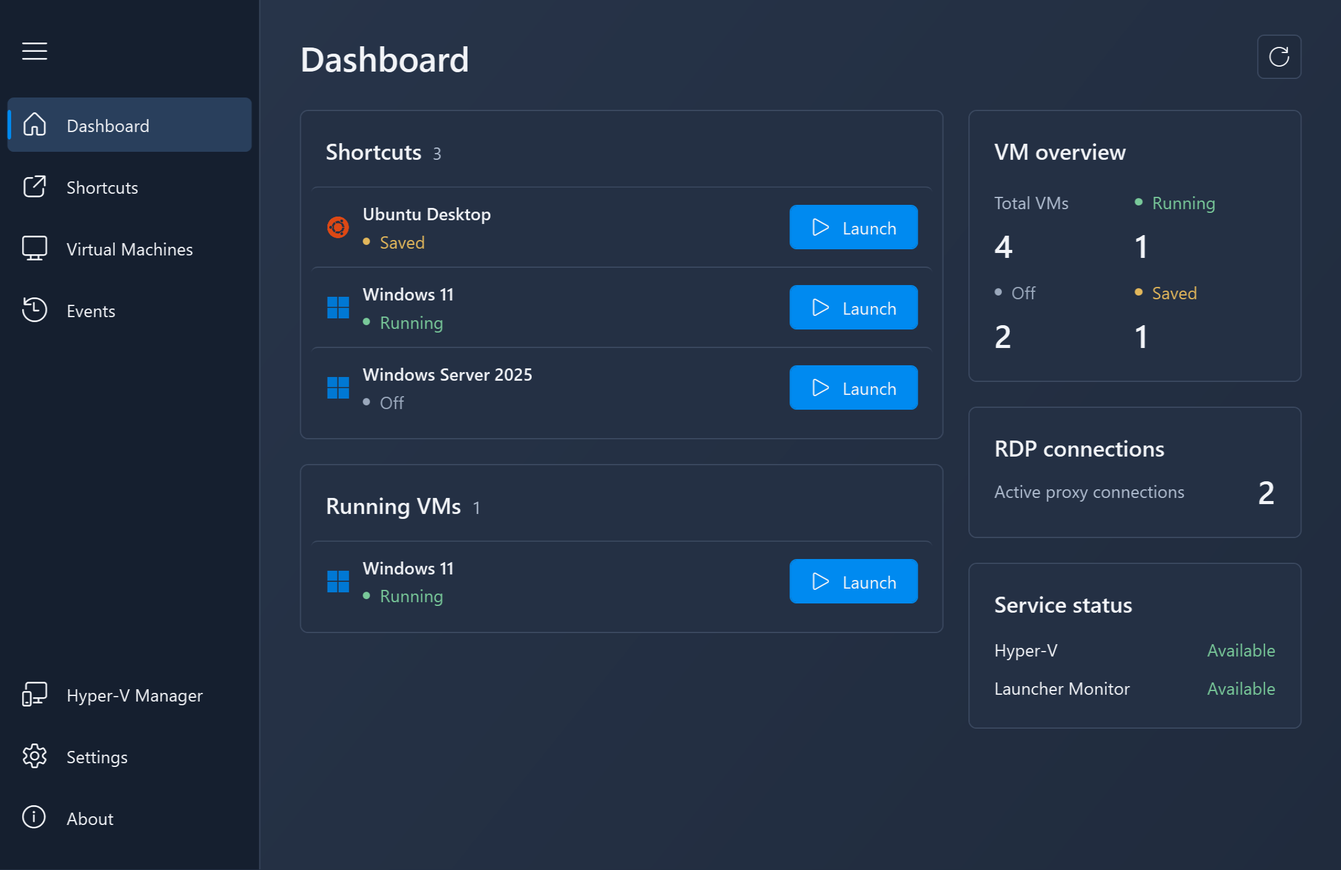
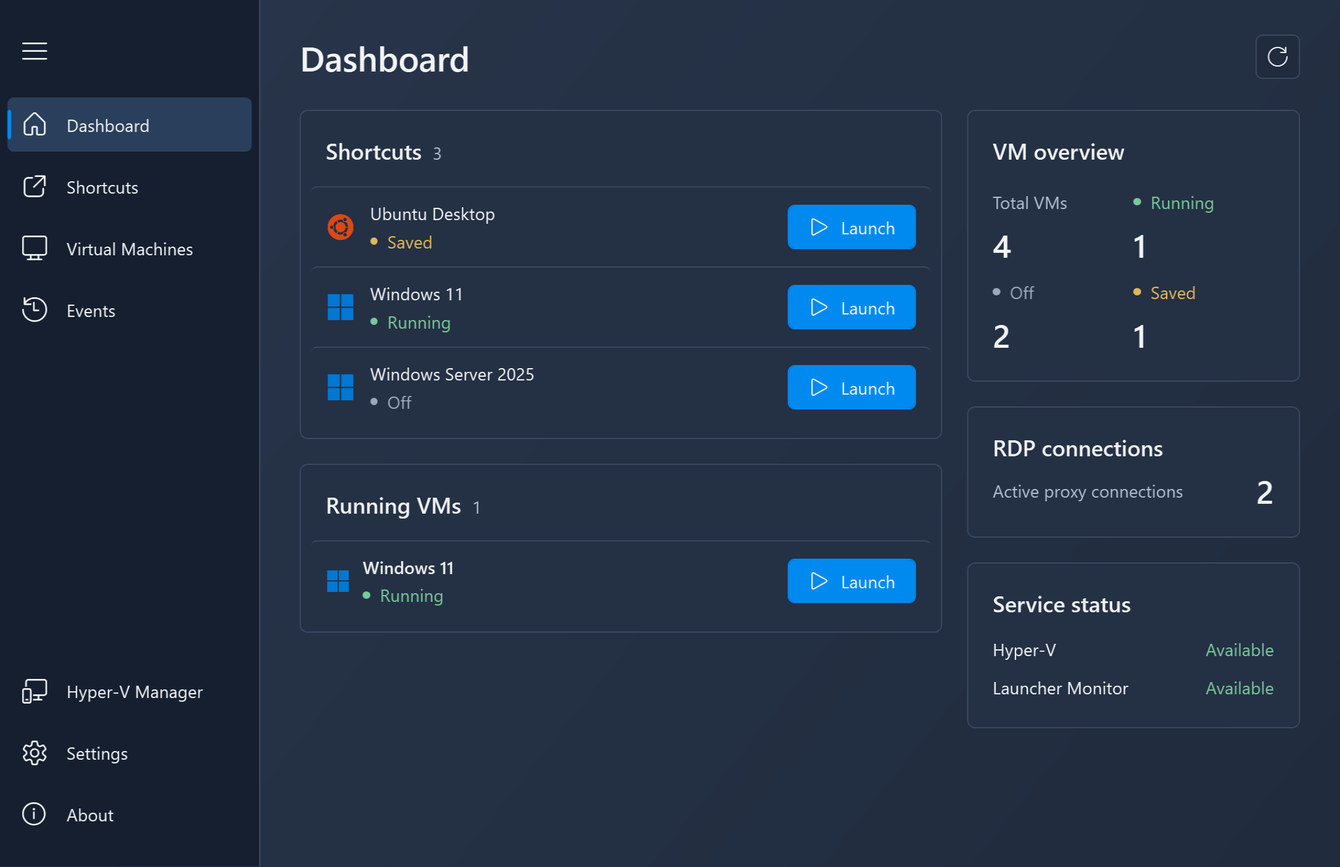
Publish Hyper-V Launcher 1.0.6 website update

diff --git a/guide.html b/guide.html
@@ -13,10 +13,10 @@
     </script>
     <meta name="viewport" content="width=device-width, initial-scale=1">
     <title>Hyper-V Launcher Guide — Create &amp; Manage VM Shortcuts</title>
-    <meta name="description" content="Set up Hyper-V Launcher 1.0.5: dashboard, VM shortcuts, remote connections, activity history, automatic actions, and support archives.">
+    <meta name="description" content="Set up Hyper-V Launcher 1.0.6: dashboard, VM shortcuts, remote connections, activity history, automatic actions, and support archives.">
     <meta name="theme-color" content="#ffffff">
     <link rel="stylesheet" href="styles.css">
-    <link rel="icon" href="favicon.ico?v=1.0.5" type="image/x-icon">
+    <link rel="icon" href="favicon.ico?v=1.0.6" type="image/x-icon">
     <link rel="canonical" href="https://hypervlauncher.andrezammit.com/guide.html">
     <meta name="robots" content="index, follow, max-image-preview:large">
     <meta property="og:type" content="website">
@@ -24,15 +24,15 @@
     <meta property="og:locale" content="en_US">
     <meta property="og:url" content="https://hypervlauncher.andrezammit.com/guide.html">
     <meta property="og:title" content="Hyper-V Launcher Guide — Create &amp; Manage VM Shortcuts">
-    <meta property="og:description" content="Set up Hyper-V Launcher 1.0.5: dashboard, VM shortcuts, remote connections, activity history, automatic actions, and support archives.">
+    <meta property="og:description" content="Set up Hyper-V Launcher 1.0.6: dashboard, VM shortcuts, remote connections, activity history, automatic actions, and support archives.">
     <meta property="og:image" content="https://hypervlauncher.andrezammit.com/Images/VirtualMachines.png">
     <meta property="og:image:type" content="image/png">
-    <meta property="og:image:width" content="2174">
-    <meta property="og:image:height" content="1410">
+    <meta property="og:image:width" content="2172">
+    <meta property="og:image:height" content="1406">
     <meta property="og:image:alt" content="Hyper-V Launcher Virtual Machines page for creating shortcuts">
     <meta name="twitter:card" content="summary_large_image">
     <meta name="twitter:title" content="Hyper-V Launcher Guide — Create &amp; Manage VM Shortcuts">
-    <meta name="twitter:description" content="Set up Hyper-V Launcher 1.0.5: dashboard, VM shortcuts, remote connections, activity history, automatic actions, and support archives.">
+    <meta name="twitter:description" content="Set up Hyper-V Launcher 1.0.6: dashboard, VM shortcuts, remote connections, activity history, automatic actions, and support archives.">
     <meta name="twitter:image" content="https://hypervlauncher.andrezammit.com/Images/VirtualMachines.png">
     <meta name="twitter:image:alt" content="Hyper-V Launcher Virtual Machines page for creating shortcuts">
     <script type="application/ld+json">
@@ -44,7 +44,7 @@
             "@id": "https://hypervlauncher.andrezammit.com/guide.html#webpage",
             "url": "https://hypervlauncher.andrezammit.com/guide.html",
             "name": "Hyper-V Launcher Guide — Create & Manage VM Shortcuts",
-            "description": "Set up Hyper-V Launcher 1.0.5: dashboard, VM shortcuts, remote connections, activity history, automatic actions, and support archives.",
+            "description": "Set up Hyper-V Launcher 1.0.6: dashboard, VM shortcuts, remote connections, activity history, automatic actions, and support archives.",
             "inLanguage": "en",
             "isPartOf": {
                 "@id": "https://hypervlauncher.andrezammit.com/#website"
@@ -66,7 +66,7 @@
     <a class="skip-link" href="#main">Skip to content</a>
     <header class="site-header">
         <div class="wrap header-inner">
-            <a class="brand" href="index.html"><img class="brand-logo" src="Images/Logo.png?v=1.0.5" width="64" height="64" alt="">Hyper-V Launcher</a>
+            <a class="brand" href="index.html"><img class="brand-logo" src="Images/Logo.png?v=1.0.6" width="64" height="64" alt="">Hyper-V Launcher</a>
             <nav aria-label="Main navigation">
                 <a href="index.html#features">Features</a>
                 <a href="guide.html">Guide</a>
@@ -77,11 +77,12 @@
 <main id="main">
     <article class="wrap guide" id="guide">
         <h1>Hyper-V Launcher guide</h1>
-        <p class="guide-intro">Use Hyper-V Launcher 1.0.5 to manage local VMs, launch shortcuts, configure remote connections, and review activity.</p>
+        <p class="guide-intro">Use Hyper-V Launcher 1.0.6 to manage local VMs, launch shortcuts, configure remote connections, and review activity.</p>
         <nav class="guide-contents" aria-label="On this page">
             <h2>On this page</h2>
             <ul>
-                <li><a href="#version-1-0-5">What’s new in 1.0.5</a></li>
+                <li><a href="#version-1-0-6">What’s new in 1.0.6</a></li>
+                <li><a href="#version-1-0-5">Previous release: 1.0.5</a></li>
                 <li><a href="#version-1-0-4">Previous release: 1.0.4</a></li>
                 <li><a href="#version-1-0-3">Previous release: 1.0.3</a></li>
                 <li><a href="#dashboard">Use the dashboard and VM lists</a></li>
@@ -96,6 +97,17 @@
                 <li><a href="#troubleshooting">Troubleshooting</a></li>
             </ul>
         </nav>
+
+        <section class="guide-section" id="version-1-0-6">
+            <h2>What’s new in 1.0.6</h2>
+            <p>This release makes creating your first shortcut easier and refines the dashboard and Events page.</p>
+            <ul>
+                <li><strong>Your first shortcut:</strong> create a shortcut directly from the empty dashboard. Choose a VM, use Back to change your selection, and see confirmation when the shortcut is ready. A single VM skips the picker.</li>
+                <li><strong>Getting started:</strong> when no VMs are found, the dashboard explains how to add one and offers to open Hyper-V Manager.</li>
+                <li><strong>Simpler shortcut settings:</strong> remote connection options sit in a collapsible section. Existing remote triggers and invalid port fields expand the section when needed.</li>
+                <li><strong>Visual refinements:</strong> larger guest OS icons and lighter shortcut labels on the dashboard, with more room for Events search and clearer outcome spacing and alignment.</li>
+            </ul>
+        </section>
 
         <section class="guide-section" id="version-1-0-5">
             <h2>What’s new in 1.0.5</h2>
@@ -143,7 +155,7 @@
                     <p>Select several rows with Ctrl or Shift, then choose <strong>Launch</strong> to launch all selected entries. Right-click a selected row to use its context menu without losing the selection. You can also double-click a row to launch it.</p>
                     <p>Guest OS information depends on what the VM reports to Hyper-V. Missing details for running VMs are refreshed in the background; refresh the list to see newly detected information. A shortcut keeps the icon saved when it was created; older shortcuts without saved icon metadata show the default icon.</p>
                 </div>
-                <a class="screenshot" href="Images/Dashboard.png" aria-label="View full-size Dashboard screenshot"><img src="Images/Dashboard.png" width="2174" height="1410" loading="lazy" alt="Dashboard showing VM overview, shortcuts, running VMs, connections, and service status"></a>
+                <a class="screenshot" href="Images/Dashboard.png" aria-label="View full-size Dashboard screenshot"><img src="Images/Dashboard.png" width="2172" height="1406" loading="lazy" alt="Dashboard showing VM overview, shortcuts, running VMs, connections, and service status"></a>
             </div>
         </section>
 
@@ -158,6 +170,7 @@
         <section class="guide-section" id="desktop-shortcuts">
             <h2>Create a desktop shortcut for a Hyper-V virtual machine</h2>
             <p>A shortcut opens a local VM without navigating through Hyper-V Manager each time. You can place it on your desktop, in the Start Menu, or both.</p>
+            <p>For your first shortcut, choose <strong>Create your first shortcut</strong> on the dashboard. If you have several VMs, select one and choose <strong>Continue</strong>; use <strong>Back</strong> to change your choice. With one VM, the shortcut dialog opens directly. If no VMs exist, choose <strong>Open Hyper-V Manager</strong>, create a VM, then refresh the dashboard.</p>
             <div class="guide-row">
                 <div>
                     <ol>
@@ -165,12 +178,12 @@
                         <li>Select the VM you want to use and click <strong>Create Shortcut</strong>.</li>
                         <li>Enter a shortcut name that you will recognize.</li>
                         <li>Select <strong>Desktop Shortcut</strong>, <strong>Start Menu Shortcut</strong>, or both.</li>
-                        <li>Choose what should happen when the VM connection closes, then click <strong>Save</strong>.</li>
+                        <li>Choose what should happen when the VM connection closes, then click <strong>Create shortcut</strong>.</li>
                     </ol>
                     <p>Double-click the desktop shortcut or open it from the Start Menu. Hyper-V Launcher starts a stopped or saved VM and opens its connection window while startup is being confirmed.</p>
                     <p>You can also select a configured shortcut on the <strong>Shortcuts</strong> page and click <strong>Launch</strong>. To change its name or close action later, select it and click <strong>Edit</strong>. New shortcuts use your saved creation defaults; the dialog checks the name and remote-connection ports before saving.</p>
                 </div>
-                <a class="screenshot" href="Images/VirtualMachines.png" aria-label="View full-size Virtual Machines screenshot"><img src="Images/VirtualMachines.png" width="2174" height="1410" loading="lazy" alt="Virtual Machines page with a selected VM and the Create Shortcut control"></a>
+                <a class="screenshot" href="Images/VirtualMachines.png" aria-label="View full-size Virtual Machines screenshot"><img src="Images/VirtualMachines.png" width="2172" height="1406" loading="lazy" alt="Virtual Machines page with a selected VM and the Create Shortcut control"></a>
             </div>
         </section>
 
@@ -199,19 +212,19 @@
                         <dt>Shutdown the Virtual Machine</dt>
                         <dd>Requests a guest shutdown. The implementation can fall back to turning off the VM when a particular shutdown failure occurs, so save your work inside the guest before closing the connection.</dd>
                     </dl>
-                    <p>Click <strong>Save</strong>, then launch the configured shortcut to use the selected action. The action runs when that shortcut’s VM connection window closes. Opening a separate connection directly through Hyper-V Manager does not use the shortcut’s close action.</p>
+                    <p>Click <strong>Create shortcut</strong> (or <strong>Save</strong> when editing), then launch the configured shortcut to use the selected action. The action runs when that shortcut’s VM connection window closes. Opening a separate connection directly through Hyper-V Manager does not use the shortcut’s close action.</p>
                 </div>
-                <a class="screenshot" href="Images/CreateShortcut.png" aria-label="View full-size shortcut settings screenshot"><img src="Images/CreateShortcut.png" width="1134" height="1254" loading="lazy" alt="Shortcut dialog showing the action to perform when the virtual machine connection closes"></a>
+                <a class="screenshot" href="Images/CreateShortcut.png" aria-label="View full-size shortcut settings screenshot"><img src="Images/CreateShortcut.png" width="1132" height="1092" loading="lazy" alt="Shortcut dialog showing the action to perform when the virtual machine connection closes"></a>
             </div>
         </section>
 
         <section class="guide-section" id="remote-connections">
             <h2>Start a VM from a remote connection</h2>
-            <p>Enable <strong>Start shortcut from remote connection</strong> when creating or editing a shortcut. Hyper-V Launcher listens on a port on the Hyper-V host. An incoming connection starts the VM and forwards traffic to the destination port inside the guest.</p>
+            <p>Expand <strong>Remote connection settings</strong>, then enable <strong>Start shortcut from remote connection</strong> when creating or editing a shortcut. Hyper-V Launcher listens on a port on the Hyper-V host. An incoming connection starts the VM and forwards traffic to the destination port inside the guest.</p>
             <ol>
                 <li>Enable Remote Desktop inside a guest operating system that supports hosting Remote Desktop connections. Make sure it accepts connections and that the Hyper-V host can reach the guest over its virtual network.</li>
                 <li>Choose an unused <strong>Local port</strong> on the Hyper-V host, for example <strong>3390</strong>. Use a different local port for each shortcut with remote connections enabled; avoid ports already used by other services.</li>
-                <li>Set <strong>Remote port</strong> to the guest's Remote Desktop listening port, usually <strong>3389</strong>, then click <strong>Save</strong>.</li>
+                <li>Set <strong>Remote port</strong> to the guest's Remote Desktop listening port, usually <strong>3389</strong>, then click <strong>Create shortcut</strong> (or <strong>Save</strong> when editing).</li>
                 <li>Keep <strong>Hyper-V Launcher Service</strong> running. From your Remote Desktop client, connect to the host's name or IP address followed by the local port, for example <code>my-hyperv-pc:3390</code>. Sign in with the guest's credentials.</li>
             </ol>
             <p>The local port belongs to the host; the remote port belongs to the VM. For example, a connection to <code>my-hyperv-pc:3390</code> is forwarded to port <code>3389</code> on the guest. The guest must report an IP address to Hyper-V and be reachable from the host. If a reported guest address cannot be reached, the proxy can try another reported address. Allow the chosen host port through your firewall only for the networks and clients that need access; use a trusted network or VPN for remote access.</p>
@@ -232,7 +245,7 @@
                     </ul>
                     <p>These settings handle VM creation and deletion events. For machines you already have, create shortcuts from the <strong>Virtual Machines</strong> page. Automatic creation and cleanup depend on the installed <strong>Hyper-V Launcher Service</strong>.</p>
                 </div>
-                <a class="screenshot" href="Images/Settings.png" aria-label="View full-size Settings screenshot"><img src="Images/Settings.png" width="2174" height="1410" loading="lazy" alt="Settings page with automatic shortcut creation, notification, cleanup, and Windows login options"></a>
+                <a class="screenshot" href="Images/Settings.png" aria-label="View full-size Settings screenshot"><img src="Images/Settings.png" width="2172" height="1406" loading="lazy" alt="Settings page with automatic shortcut creation, notification, cleanup, and Windows login options"></a>
             </div>
         </section>
 
@@ -244,7 +257,7 @@
                     <p>Search events and filter by activity type, outcome, and time range. Select an event to open its details. Use <strong>Refresh</strong> for recent activity or <strong>Load older events</strong> when available to see earlier entries.</p>
                     <p>Check the recorded outcome and details when investigating a failed or unconfirmed operation.</p>
                 </div>
-                <a class="screenshot" href="Images/Events.png" aria-label="View full-size Events screenshot"><img src="Images/Events.png" width="2174" height="1410" loading="lazy" alt="Events page showing activity history, filters, and recorded outcomes"></a>
+                <a class="screenshot" href="Images/Events.png" aria-label="View full-size Events screenshot"><img src="Images/Events.png" width="2172" height="1406" loading="lazy" alt="Events page showing activity history, filters, and recorded outcomes"></a>
             </div>
         </section>
 
@@ -275,7 +288,7 @@
             <h3>My virtual machine is not listed</h3>
             <p>Open Hyper-V Manager and confirm the VM exists on this computer. Hyper-V Launcher lists local VMs, not those on a remote host. Confirm Hyper-V is enabled and that you can access the local VM in Hyper-V Manager, then reopen the launcher to reload the list.</p>
             <h3>The VM is listed, but there is no desktop shortcut</h3>
-            <p>A VM in the <strong>Virtual Machines</strong> list is not necessarily a configured shortcut. Select it, choose <strong>Create Shortcut</strong>, select <strong>Desktop Shortcut</strong>, and save. Automatic creation applies to newly detected VMs; it does not create desktop shortcuts for every existing machine when enabled.</p>
+            <p>A VM in the <strong>Virtual Machines</strong> list is not necessarily a configured shortcut. Select it, choose <strong>Create Shortcut</strong>, select <strong>Desktop Shortcut</strong>, and click <strong>Create shortcut</strong>. Automatic creation applies to newly detected VMs; it does not create desktop shortcuts for every existing machine when enabled.</p>
             <h3>The tray icon or a tray shortcut is missing</h3>
             <p>Check the hidden icons menu and confirm the tray application is running. If you closed it, you can start <strong>HyperVLauncher.Apps.Tray.exe</strong> from your Hyper-V Launcher installation folder. Enable <strong>Start on Windows login</strong> for future sign-ins. If only a VM entry is missing, check that it has a shortcut on the <strong>Shortcuts</strong> page.</p>
             <h3>The close action did not run</h3>
@@ -286,7 +299,7 @@
     </article>
 </main>
     <footer class="wrap site-footer">
-        <a class="brand" href="index.html"><img class="brand-logo" src="Images/Logo.png?v=1.0.5" width="64" height="64" alt="">Hyper-V Launcher</a>
+        <a class="brand" href="index.html"><img class="brand-logo" src="Images/Logo.png?v=1.0.6" width="64" height="64" alt="">Hyper-V Launcher</a>
         <p>By <a href="https://andrezammit.com">André Zammit</a></p>
     </footer>
 </body>

diff --git a/index.html b/index.html
@@ -16,7 +16,7 @@
     <meta name="description" content="Launch and manage local Hyper-V virtual machines with a dashboard, desktop shortcuts, system tray access, remote connections, and activity history. Free for Windows x64.">
     <meta name="theme-color" content="#ffffff">
     <link rel="stylesheet" href="styles.css">
-    <link rel="icon" href="favicon.ico?v=1.0.5" type="image/x-icon">
+    <link rel="icon" href="favicon.ico?v=1.0.6" type="image/x-icon">
     <link rel="canonical" href="https://hypervlauncher.andrezammit.com/">
     <meta name="robots" content="index, follow, max-image-preview:large">
     <meta property="og:type" content="website">
@@ -27,8 +27,8 @@
     <meta property="og:description" content="Launch and manage local Hyper-V virtual machines with a dashboard, desktop shortcuts, system tray access, remote connections, and activity history. Free for Windows x64.">
     <meta property="og:image" content="https://hypervlauncher.andrezammit.com/Images/Dashboard.png">
     <meta property="og:image:type" content="image/png">
-    <meta property="og:image:width" content="2174">
-    <meta property="og:image:height" content="1410">
+    <meta property="og:image:width" content="2172">
+    <meta property="og:image:height" content="1406">
     <meta property="og:image:alt" content="Hyper-V Launcher dashboard with shortcuts, running VMs, and service status">
     <meta name="twitter:card" content="summary_large_image">
     <meta name="twitter:title" content="Hyper-V Launcher — Desktop Shortcuts &amp; System Tray Access">
@@ -74,7 +74,7 @@
             "applicationCategory": "UtilitiesApplication",
             "operatingSystem": "Windows x64",
             "softwareRequirements": "Hyper-V enabled",
-            "softwareVersion": "1.0.5",
+            "softwareVersion": "1.0.6",
             "downloadUrl": "https://github.com/andrezammit/hypervlauncher-site/releases/latest/download/HyperVLauncher.Setup.exe",
             "screenshot": "https://hypervlauncher.andrezammit.com/Images/Dashboard.png",
             "author": {
@@ -102,7 +102,7 @@
     <a class="skip-link" href="#main">Skip to content</a>
     <header class="site-header">
         <div class="wrap header-inner">
-            <a class="brand" href="index.html"><img class="brand-logo" src="Images/Logo.png?v=1.0.5" width="64" height="64" alt="">Hyper-V Launcher</a>
+            <a class="brand" href="index.html"><img class="brand-logo" src="Images/Logo.png?v=1.0.6" width="64" height="64" alt="">Hyper-V Launcher</a>
             <nav aria-label="Main navigation">
                 <a href="index.html#features">Features</a>
                 <a href="guide.html">Guide</a>
@@ -115,17 +115,17 @@
             <h1 id="hero-title">Your virtual machines.<br>Ready when you are.</h1>
             <p class="intro">Launch and manage your local Hyper-V machines from one dashboard, your desktop, Start Menu, or system tray.</p>
             <a class="button" href="https://github.com/andrezammit/hypervlauncher-site/releases/latest/download/HyperVLauncher.Setup.exe">Download</a>
-            <p class="requirements">Version 1.0.5 · Windows x64 · Hyper-V required<br><a href="guide.html#version-1-0-5">What’s new in 1.0.5</a></p>
+            <p class="requirements">Version 1.0.6 · Windows x64 · Hyper-V required<br><a href="guide.html#version-1-0-6">What’s new in 1.0.6</a></p>
         </section>
         <div class="product-stage wrap">
             <a href="Images/Dashboard.png" aria-label="View full-size Hyper-V Launcher screenshot">
-                <img src="Images/Dashboard.png" width="2174" height="1410" fetchpriority="high" alt="Hyper-V Launcher dashboard with shortcuts, running VMs, VM state totals, RDP connections, and service status">
+                <img src="Images/Dashboard.png" width="2172" height="1406" fetchpriority="high" alt="Hyper-V Launcher dashboard with shortcuts, running VMs, VM state totals, RDP connections, and service status">
             </a>
         </div>
         <section class="features wrap" id="features" aria-label="Features">
             <article>
                 <h2>Shortcuts where you need them</h2>
-                <p>Create shortcuts for your virtual machines on your desktop or in the Start Menu. Launch them without an unnecessary administrator prompt.</p>
+                <p>Create your first shortcut directly from the dashboard, then launch your VMs from your desktop or Start Menu. Launch them without an unnecessary administrator prompt.</p>
             </article>
             <article>
                 <h2>Launch from the system tray</h2>
@@ -151,7 +151,7 @@
                 <article>
                     <h3>Follow recent activity</h3>
                     <p>Search and filter VM, shortcut, and connection events, then open an event for details. <a href="guide.html#events">Explore the Events page</a>.</p>
-                    <a class="screenshot" href="Images/Events.png" aria-label="View full-size Events screenshot"><img src="Images/Events.png" width="2174" height="1410" loading="lazy" alt="Events page with activity filters, outcomes, and event details"></a>
+                    <a class="screenshot" href="Images/Events.png" aria-label="View full-size Events screenshot"><img src="Images/Events.png" width="2172" height="1406" loading="lazy" alt="Events page with activity filters, outcomes, and event details"></a>
                 </article>
                 <article>
                     <h3>Recognize your machines</h3>
@@ -172,7 +172,7 @@
         </section>
     </main>
     <footer class="wrap site-footer">
-        <a class="brand" href="index.html"><img class="brand-logo" src="Images/Logo.png?v=1.0.5" width="64" height="64" alt="">Hyper-V Launcher</a>
+        <a class="brand" href="index.html"><img class="brand-logo" src="Images/Logo.png?v=1.0.6" width="64" height="64" alt="">Hyper-V Launcher</a>
         <p>By <a href="https://andrezammit.com">André Zammit</a></p>
     </footer>
 </body>

diff --git a/README.md b/README.md
@@ -6,11 +6,11 @@ Hyper-V Launcher makes your local Hyper-V virtual machines easier to access. Cre
 
 [Download](https://github.com/andrezammit/hypervlauncher-site/releases/latest/download/HyperVLauncher.Setup.exe) · [Visit the website](https://hypervlauncher.andrezammit.com/) · [Read the guide](https://hypervlauncher.andrezammit.com/guide.html)
 
-Version 1.0.5 · Windows x64 · Hyper-V required
+Version 1.0.6 · Windows x64 · Hyper-V required
 
-[What’s new in 1.0.5](https://hypervlauncher.andrezammit.com/guide.html#version-1-0-5)
+[What’s new in 1.0.6](https://hypervlauncher.andrezammit.com/guide.html#version-1-0-6)
 
-Version 1.0.5 fixes unnecessary administrator prompts when launching shortcuts, explains failed RDP connections with attempted addresses and troubleshooting guidance, and simplifies displayed product versions.
+Version 1.0.6 adds guided first-shortcut creation from the dashboard, guidance when no VMs exist, collapsible remote connection settings, and dashboard and Events visual refinements.
 
 ## Dashboard and VM management
 
@@ -46,7 +46,7 @@ Choose the action when creating a shortcut or edit an existing shortcut later. S
 
 ## Start a VM from a remote connection
 
-Enable **Start shortcut from remote connection** on a shortcut to start its VM when a client connects to a chosen port on the Hyper-V host. Hyper-V Launcher forwards the connection to the configured destination port inside the guest.
+Expand **Remote connection settings** and enable **Start shortcut from remote connection** on a shortcut to start its VM when a client connects to a chosen port on the Hyper-V host. Hyper-V Launcher forwards the connection to the configured destination port inside the guest.
 
 For Remote Desktop, enable it in the guest, choose an unused host port such as **3390**, and set the remote port to the guest's listening port, usually **3389**. Keep **Hyper-V Launcher Service** running, then connect your Remote Desktop client to the host, for example `my-hyperv-pc:3390`, using the guest's credentials. The guest must be reachable from the host; use a trusted network or VPN for remote access.
 
@@ -69,7 +69,7 @@ In **About**, check the installed version or choose **Save support archive** to 
 1. Make sure Hyper-V is enabled and your VM is available locally in Hyper-V Manager.
 2. [Download the setup](https://github.com/andrezammit/hypervlauncher-site/releases/latest/download/HyperVLauncher.Setup.exe) and install Hyper-V Launcher.
 3. Open **Hyper-V Launcher Console** from the Start Menu.
-4. Select a VM on the **Virtual Machines** page and choose **Create Shortcut**.
+4. Choose **Create your first shortcut** on the dashboard, pick a VM if prompted, then choose its name, destinations, and close action. Click **Create shortcut**. You can also add shortcuts from the **Virtual Machines** page.
 
 The [illustrated guide](https://hypervlauncher.andrezammit.com/guide.html) covers requirements, shortcut creation, close actions, remote connections, automatic shortcut management, and troubleshooting.
 

diff --git a/index.md b/index.md
@@ -7,7 +7,7 @@ Hyper-V Launcher
 
 Hyper-V Launcher is an application which makes it easier to access and manage your local Hyper-V Virtual Machines.
 
-Version **1.0.5** · [Website](https://hypervlauncher.andrezammit.com/) · [What’s new and user guide](https://hypervlauncher.andrezammit.com/guide.html#version-1-0-5)
+Version **1.0.6** · [Website](https://hypervlauncher.andrezammit.com/) · [What’s new and user guide](https://hypervlauncher.andrezammit.com/guide.html#version-1-0-6)
 
 Main Features
 -------------
@@ -43,7 +43,9 @@ Hyper-V Launcher is configured through its main application which can be started
 
 ![Virtual Machines Page](Images/VirtualMachines.png)
 
-The Virtual Machines page shows all available Hyper-V Virtual Machines available on the system. Select one and click on "Create Shortcut".
+To create your first shortcut, choose **Create your first shortcut** on the dashboard. Select a VM if prompted, then choose a name, destinations, and close action and click **Create shortcut**. If no VMs exist, open Hyper-V Manager from the dashboard and create one first.
+
+The Virtual Machines page shows all available local Hyper-V virtual machines. Select one and click on "Create Shortcut".
 
 ![Virtual Machines Page](Images/CreateShortcut.png)
 
